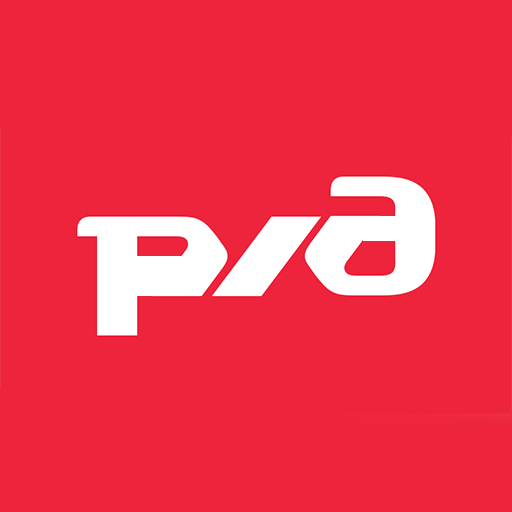
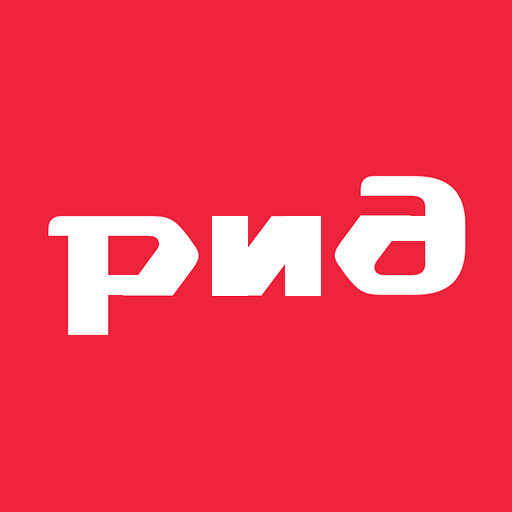
ads

Changed region(s): [[0.5312, 0.3438, 0.9375, 0.5938], [0.0938, 0.4062, 0.5, 0.6562]]

diff --git a/index.html b/index.html
@@ -38,7 +38,7 @@
            <!--  <span class="material-symbols-outlined straight">
                 straight
             </span> -->
-            <img src="resources/1-.png" class="arrow_down">
+            <img src="resources/ap.png" class="arrow_down">
             <h3><span id="station_1">Станция 1</span><br>
                 <span id="station_2">Станция 2</span></h3>
             </div>

diff --git a/html/main.html b/html/main.html
@@ -111,7 +111,6 @@
         </div>
         <div class="screen_qr_block">
             <div id="img_qr_2" class="hover-target">
-                <!-- Ваше изображение или контент здесь -->
                 <div class="hover-circle" id="hover-circle_2"></div>
             </div>
         </div>   
